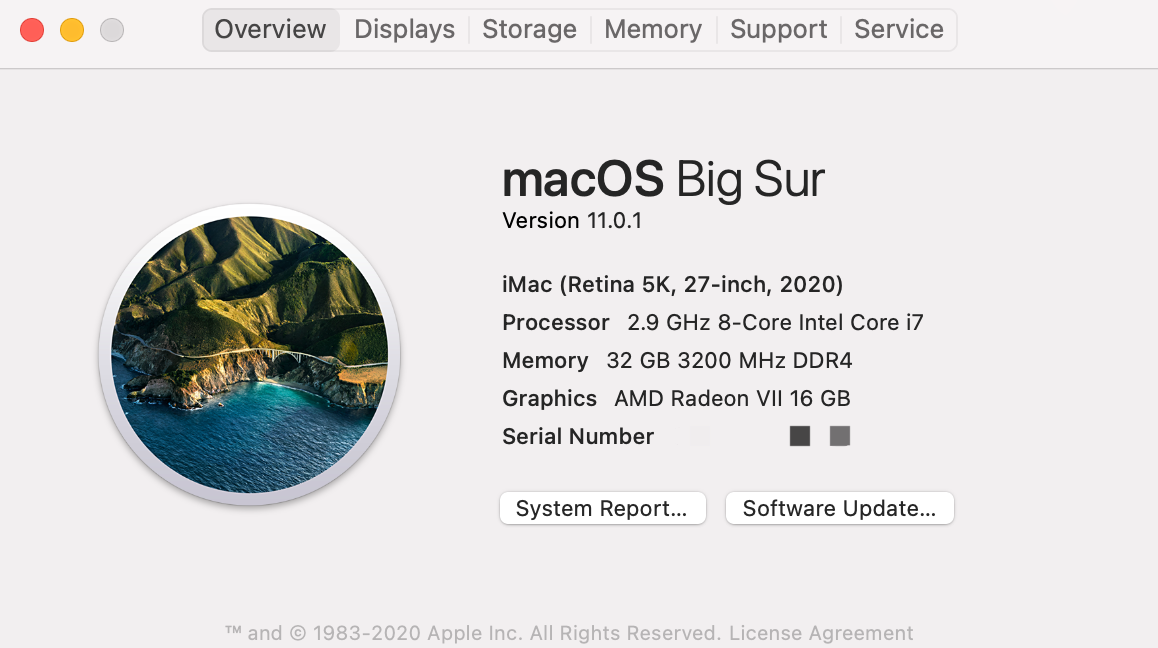
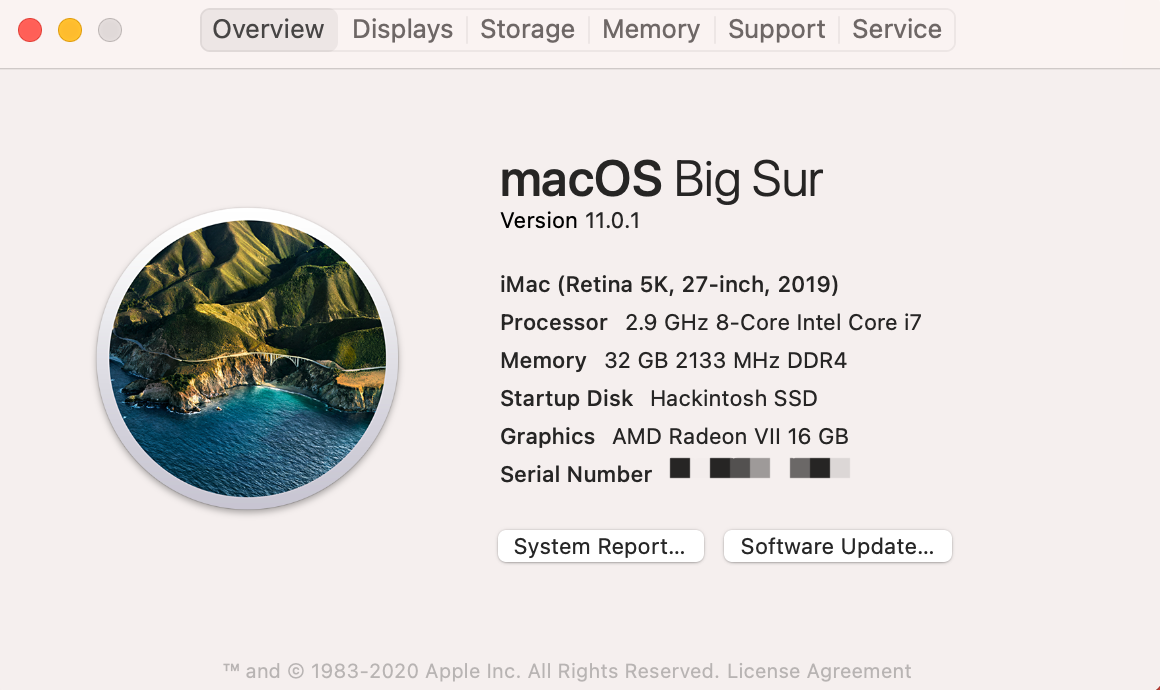
fix system panic

diff --git a/README.md b/README.md
@@ -19,7 +19,7 @@ Highly recommended reading the whole [OpenCore Install Guide](https://dortania.g
 ## Software
 
 * Bootloader: OpenCore 0.6.3-DEBUG
-* OS: macOS Big Sur 11.0.1 (20B29 / 2020-11-12)
+* OS: macOS Big Sur 11.0.1 (20B29 / 2020-11-12 / iMac19,1)
 
 ## What's working
 
@@ -46,8 +46,6 @@ Working by:
 * ig-platform-id = `07009B3E`
 * device-id = `9B3E0000`
 
-> use ig-platform-id = `0300C89B` when iGPU doesn't drive display
-
 DeviceProperties: 
 
 ```xml
@@ -66,7 +64,7 @@ DeviceProperties:
 
 #### AMD Radeon VII
 
-Native support, no additional configuration. Enable `Radeonboost.kext` to improve performance.
+Native support, no additional configuration. Enable `Radeonboost.kext` to improve performance if needed.
 
 ### Audio
 
@@ -107,8 +105,6 @@ DeviceProperties:
     <data>8hUAAA==</data>
 </dict>
 ```
-
-`FakePCIID_Intel_I225-V.kext` is from **SchmockLord**'s repository, details in issue [2.5Gbit Ethernet (Intel I225-V) Don't work #8](https://github.com/SchmockLord/Hackintosh-Intel-i9-10900k-Gigabyte-Z490-Vision-D/issues/8).
 
 ### Wi-Fi/BT
 
@@ -200,7 +196,7 @@ Add patch to `Kernel -> Patch`:
 
 ### BIOS
 
-> Version: 0607
+> Version: 0901
 
 #### Disable
 
